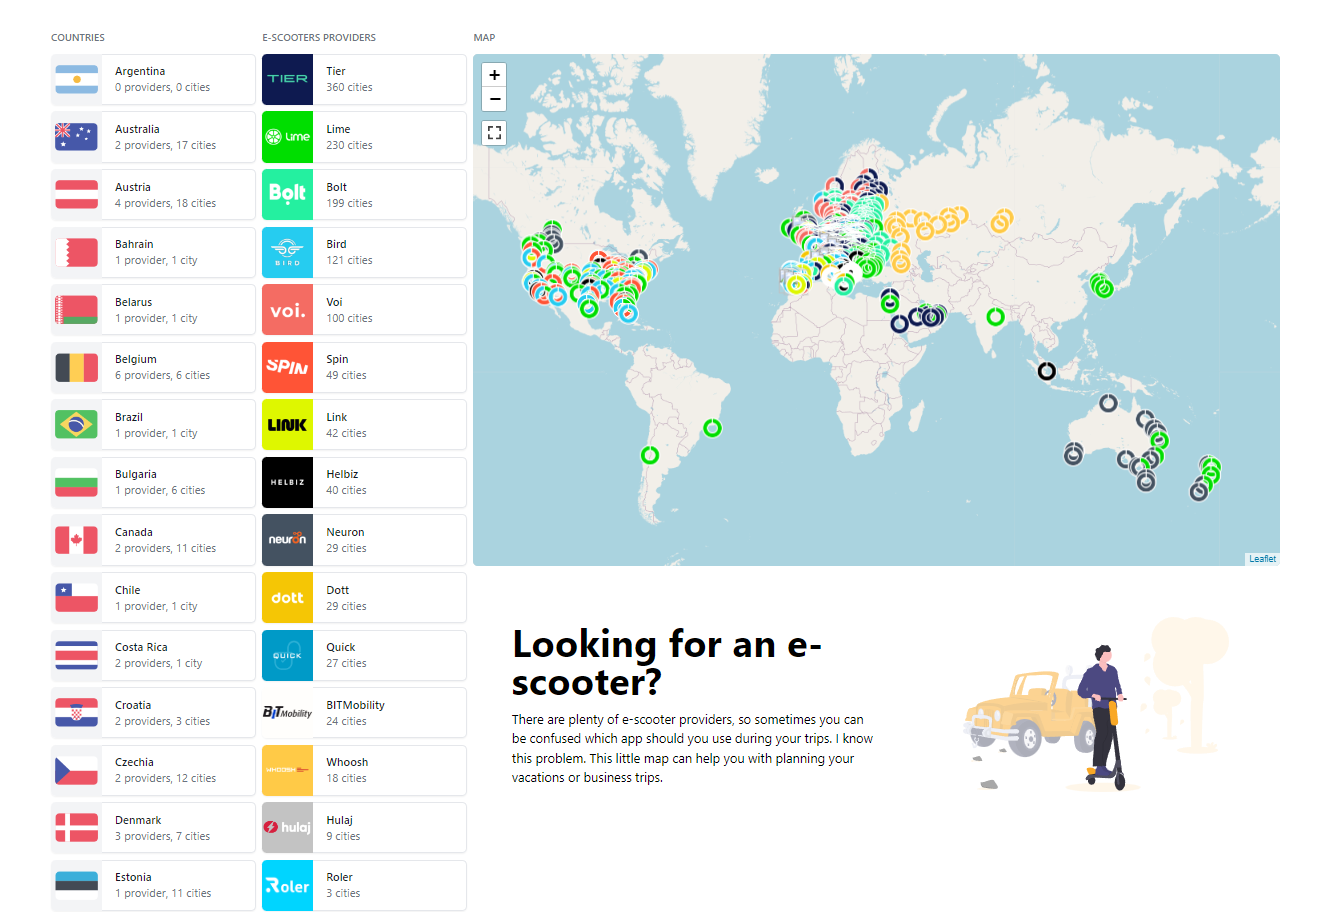
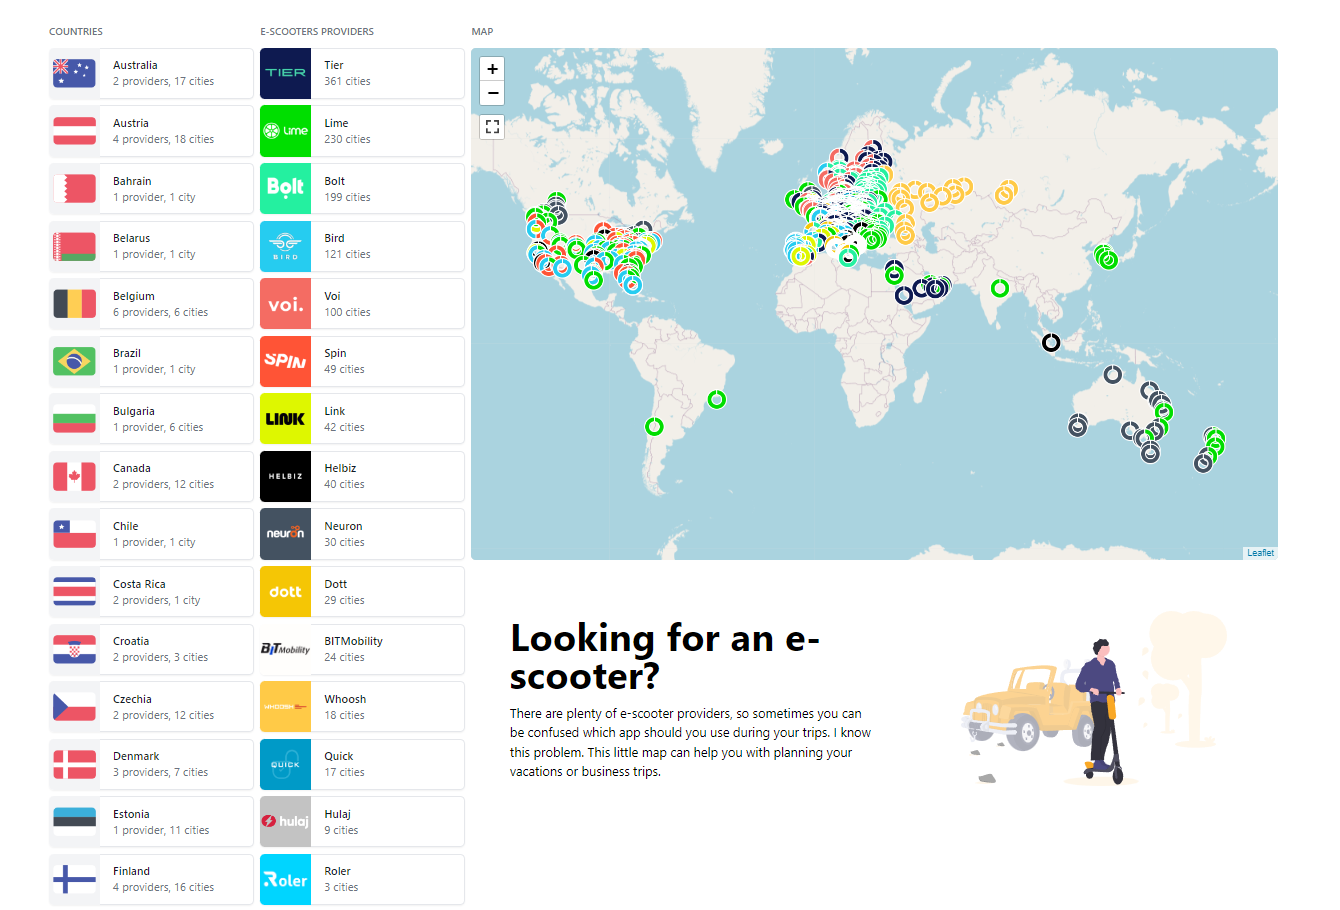
fixed Link, Tier, added one  suggestion to readme.md
Due to some bugs in my code, Link Provider was generating countries as cities before, leading to non-existent icons on the map. Now it's fixed.

Added one normalized name.

diff --git a/src/Importers/LinkDataImporter.php b/src/Importers/LinkDataImporter.php
@@ -37,7 +37,7 @@ class LinkDataImporter extends DataImporter implements HtmlDataSource
     {
         $country = null;
         $countryName = null;
-        $states = ["California", "Connecticut", "Illinois", "Kansas", "Maryland", "Michigan", "New Jersey", "Ohio", "Tennessee", "Texas", "Virginia", "Washington"];
+        $states = ["California", "Connecticut", "Illinois", "Kansas", "Maryland", "Michigan", "New Jersey", "Ohio", "Oregon", "Tennessee", "Texas", "Virginia", "Washington"];
         /** @var DOMElement $section */
         foreach ($this->sections as $section) {
             if ($section->nodeValue === "Ride with us in cities around the world!") {
@@ -47,18 +47,17 @@ class LinkDataImporter extends DataImporter implements HtmlDataSource
                 if ($node->nodeName === "strong") {
                     if (in_array($node->nodeValue, $states, true)) {
                         $countryName = "United States";
-                        $country = $this->countries->retrieve($countryName);
-                        continue 2;
                     } else {
                         $countryName = trim($node->nodeValue);
                     }
+                    $country = $this->countries->retrieve($countryName);
+                } else {
+                    if (str_contains(trim($section->nodeValue), "coming soon"))
+                        continue;
+                    $city = $this->cities->retrieve(trim($section->nodeValue), $country);
+                    $this->provider->addCity($city);
                 }
-                $country = $this->countries->retrieve($countryName);
             }
-
-            $city = $this->cities->retrieve(trim($section->nodeValue), $country);
-            if ($countryName === $city->getName()) continue;
-            $this->provider->addCity($city);
         }
 
         return $this;

diff --git a/src/Normalizers/CountryNamesNormalizer.php b/src/Normalizers/CountryNamesNormalizer.php
@@ -18,6 +18,7 @@ class CountryNamesNormalizer
             "Uk" => "United Kingdom",
             "Sverige" => "Sweden",
             "Dinamarca" => "Denmark",
+            "Österreich" => "Austria",
             default => $name,
         };
     }

diff --git a/readme.md b/readme.md
@@ -2,6 +2,7 @@
 ![screenshot.png](screenshot.png)
 ### Ideas to consider
 - restrict max zoom out to avoid looped empty map view
+- after selecting the country, description of provider could show the number of cities of the country selected by us, and not number of all provider's cities shown on a map
 - city search bar to find and pin location on a map - user would've been able to check e-scooters nearby
 - selection bar for countries or sth like map stick to viewport, now the list is definitely too long
 - e-scooters providers seen as square logo buttons - more info (like number of cities, link to website) seen on click
@@ -10,25 +11,25 @@
 ### Last build
 ```
 Cached cities loaded.
-Build date: 2023-03-21 13:01:56
+Build date: 2023-03-29 22:31:41
 
 3 cities fetched for Roler.
 9 cities fetched for Hulaj.
 24 cities fetched for BITMobility.
 199 cities fetched for Bolt.
 230 cities fetched for Lime.
-27 cities fetched for Quick.
-360 cities fetched for Tier.
+17 cities fetched for Quick.
+361 cities fetched for Tier.
 100 cities fetched for Voi.
 42 cities fetched for Link.
 49 cities fetched for Spin.
-29 cities fetched for Neuron.
+30 cities fetched for Neuron.
 40 cities fetched for Helbiz.
 18 cities fetched for Whoosh.
 121 cities fetched for Bird.
 29 cities fetched for Dott.
 
-847 cities fetched.
+835 cities fetched.
 ```
 
 ### Available providers
